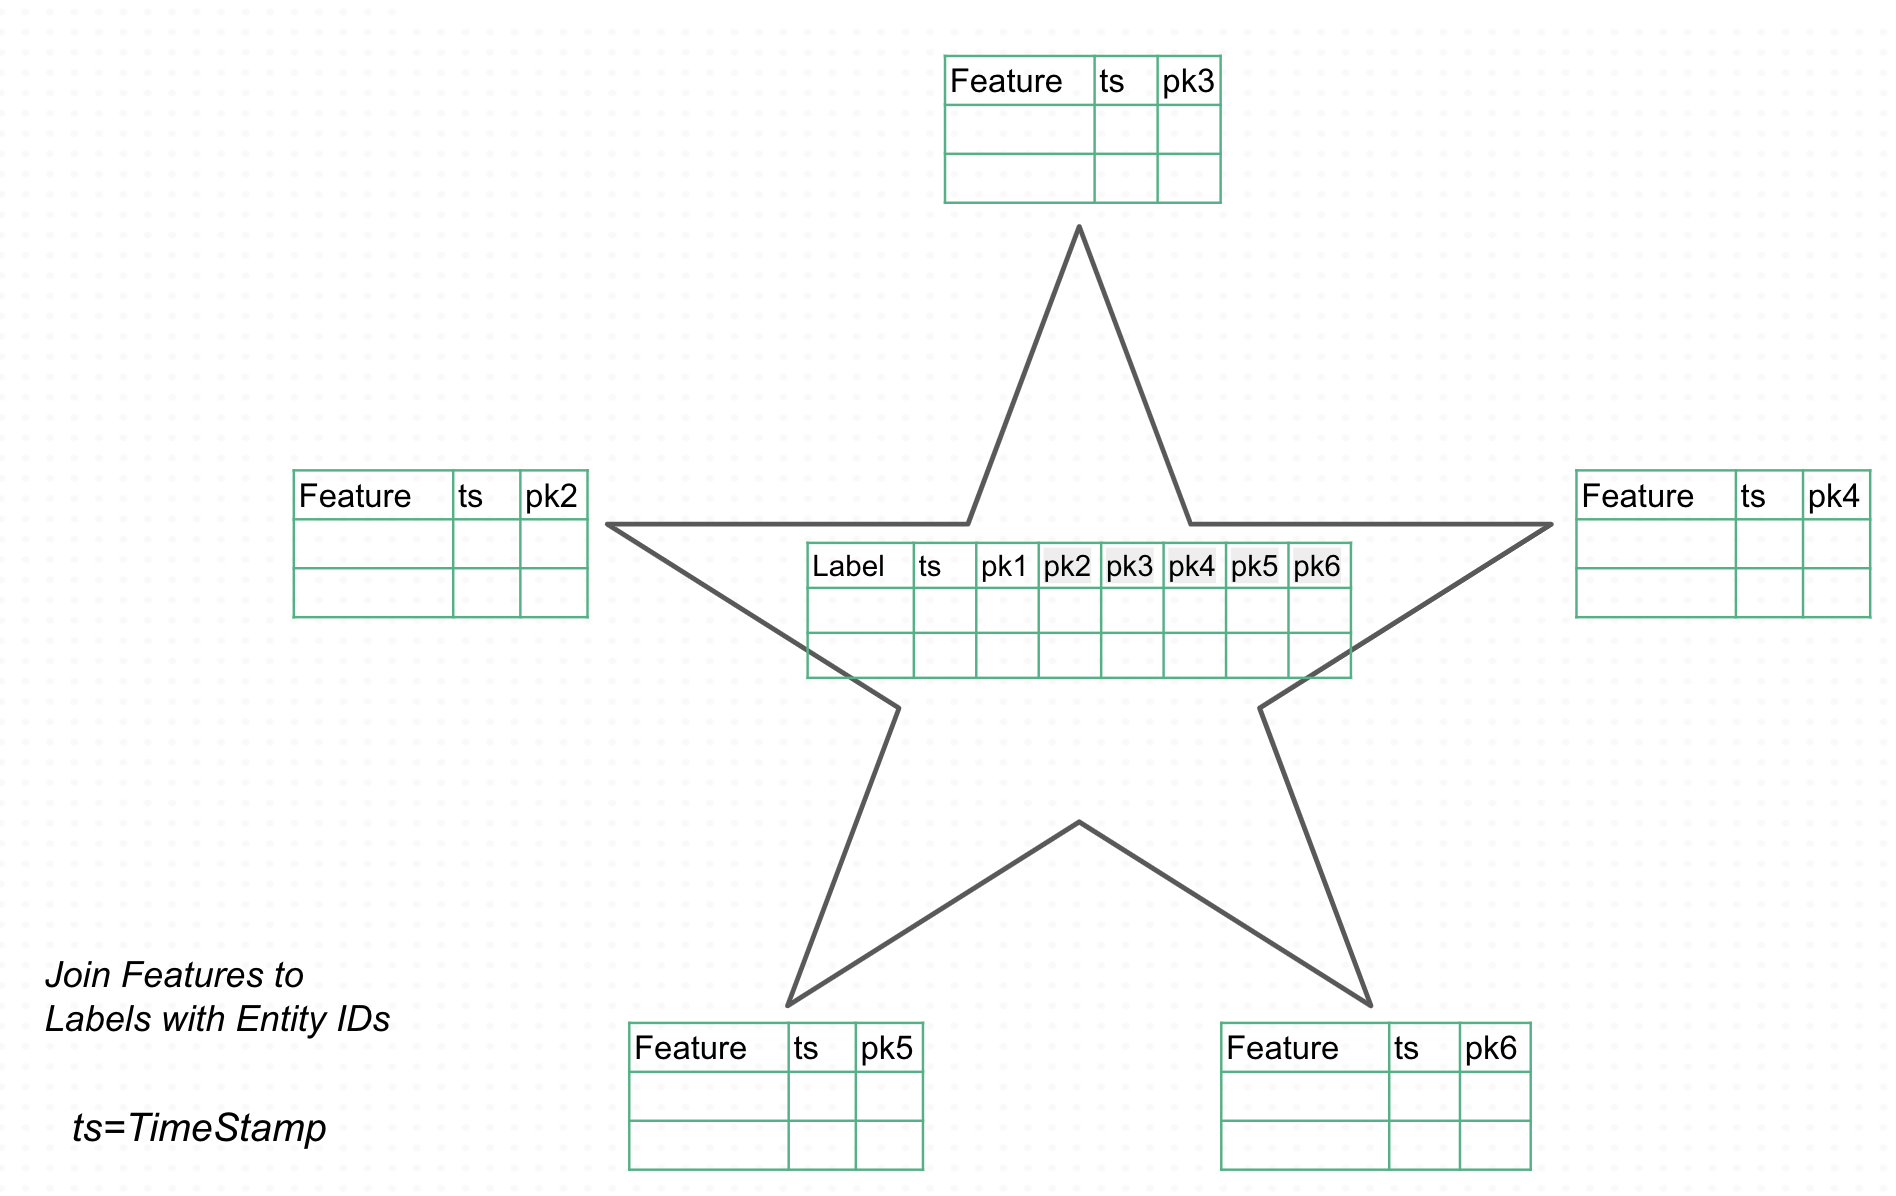
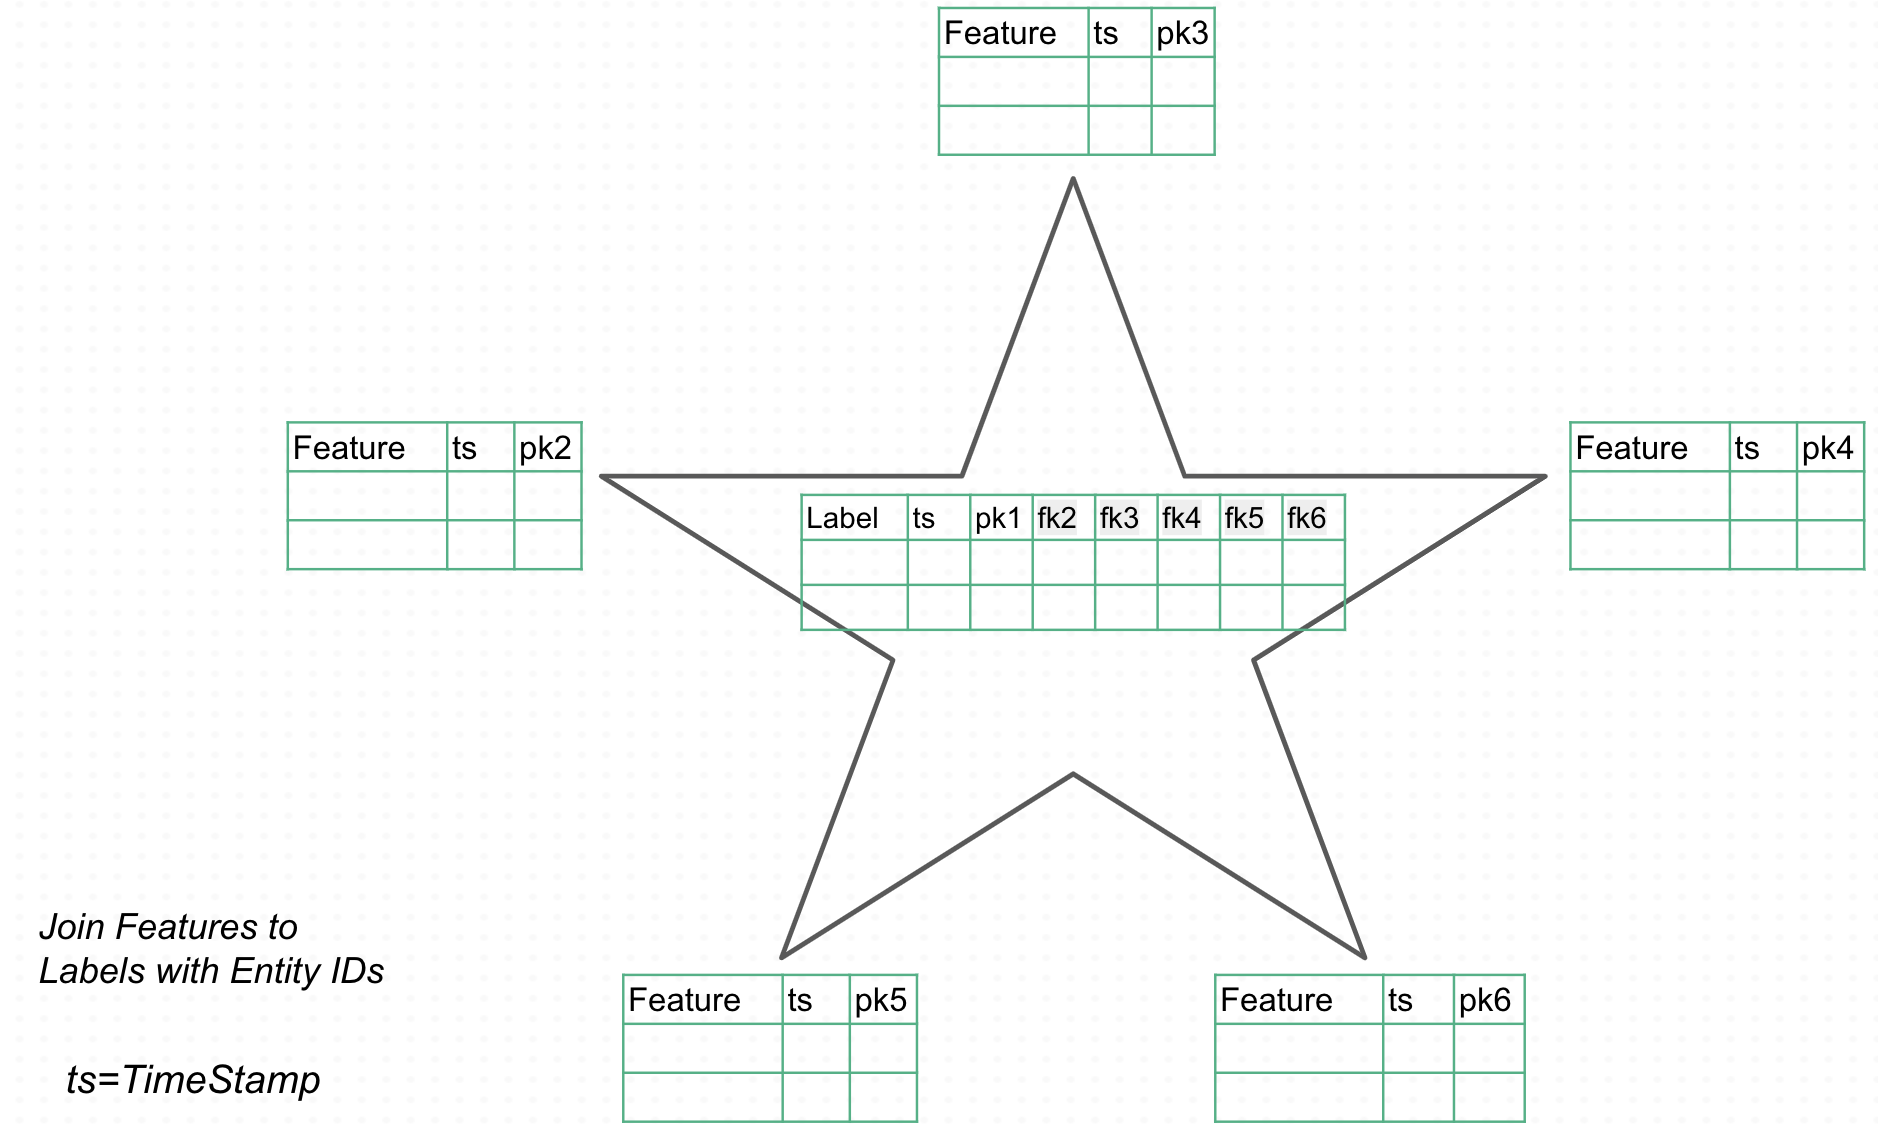
address comments

diff --git a/docs/user_guides/fs/feature_view/query.md b/docs/user_guides/fs/feature_view/query.md
@@ -20,7 +20,9 @@ The joining functionality is heavily inspired by the APIs used by Pandas to merg
 
     # save the query to feature view
     feature_view = fs.create_feature_view(
+        version=1, 
         name='credit_card_fraud',
+        labels=["is_fraud"],
         query=selected_features
     )
 
@@ -95,21 +97,21 @@ By default, Hopsworks will use the maximal matching subset of the primary keys o
     val selectedFeatures = creditCardTransactionsFg.join(accountDetailsFg)
     ```
 More complex joins are possible by selecting subsets of features from the joined feature groups and by specifying a join key and type.
-Possible join types are "inner", "left" or "right". Furthermore, it is possible to specify different features for the join key of the left and right feature group.
-The join key lists should contain the names of the features to join on.
+Possible join types are "inner", "left" or "right". By default`join_type` is `"left". Furthermore, it is possible to specify different 
+features for the join key of the left and right feature group. The join key lists should contain the names of the features to join on.
 
 === "Python"
     ```python
     selected_features = credit_card_transactions_fg.select_all() \
         .join(account_details_fg.select_all(), on=["cc_num"]) \
-        .join(merchant_details_fg.select_all(), left_on=["cc_num"], right_on=["merchant_id"], join_type="left")
+        .join(merchant_details_fg.select_all(), left_on=["merchant_id"], right_on=["id"], join_type="inner")
     ```
 
 === "Scala"
     ```scala
     val selectedFeatures = (creditCardTransactionsFg.selectAll()
         .join(accountDetailsFg.selectAll(), Seq("cc_num"))
-        .join(merchantDetailsFg.selectAll(), Seq("cc_num"), Seq("merchant_id"), "left"))
+        .join(merchantDetailsFg.selectAll(), Seq("merchant_id"), Seq("id"), "inner"))
     ```
 
 ### Data modeling in Hopsworks
@@ -119,7 +121,7 @@ Since v4.0 Hopsworks Feature selection API supports both Star and Snowflake Sche
 #### Star schema data model
 
 When choosing Star Schema data model all tables are children of the parent (the left most) feature group, which has all 
-foreign keys for its children feature groups.
+foreign keys for its child feature groups.
 
 <p align="center">
   <figure>
@@ -137,8 +139,8 @@ foreign keys for its children feature groups.
         .join(cc_issuer_details.select_all())
     ```
 
-In online inference, when you want to retrieve features in your online model, you have to provide all foreign key values 
-from the parent feature group to retrieve your precomputed feature values using the feature view.
+In online inference, when you want to retrieve features in your online model, you have to provide all foreign key values, 
+known as the serving_keys, from the parent feature group to retrieve your precomputed feature values using the feature view.
 
 === "Python"
     ```python
@@ -151,9 +153,9 @@ from the parent feature group to retrieve your precomputed feature values using 
     ```
 
 #### Snowflake schema 
-Hopsworks also provides the possibility to define children and grandchildren of the root (the left most) feature group. 
-This is called  Snowflake Schema data model where you need to build nested tables (subtrees) using joins, and then join the 
-subtrees to their parents which can be children of the root node (the leftmost feature group):
+Hopsworks also provides the possibility to define a feature view that consists of a nested tree of children (to up to a depth of 20) 
+from the root (left most) feature group. This is called  Snowflake Schema data model where you need to build nested tables (subtrees) using joins, and then join the
+subtrees to their parents iteratively until you reach the root node (the leftmost feature group in the feature selection):
 
 <p align="center">
   <figure>
@@ -170,10 +172,11 @@ subtrees to their parents which can be children of the root node (the leftmost f
 
         selected_features = credit_card_transactions.select_all()
                 .join(nested_selection)
-        .join(merchant_details.select_all()
+        .join(merchant_details.select_all())
     ```
 
-Now, you have the benefit that in online inference you only need to pass two foreign key values to retrieve the precomputed features:
+Now, you have the benefit that in online inference you only need to pass two serving key values (the foreign keys of the leftmost feature group)
+to retrieve the precomputed features:
 
 === "Python"
     ```python
@@ -206,15 +209,15 @@ Filters are fully compatible with joins:
     ```python
     selected_features = credit_card_transactions_fg.select_all() \
         .join(account_details_fg.select_all(), on=["cc_num"]) \
-        .join(merchant_details_fg.select_all(), left_on=["cc_num"], right_on=["merchant_id"], join_type="left") \
+        .join(merchant_details_fg.select_all(), left_on=["merchant_id"], right_on=["id"], join_type="left") \
         .filter((credit_card_transactions_fg.category == "Grocery") | (credit_card_transactions_fg.category == "Restaurant/Cafeteria"))
     ```
 
 === "Scala"
     ```scala
     val selectedFeatures = (creditCardTransactionsFg.selectAll()
-        .join(taccountDetailsFg.selectAll(), Seq("cc_num"))
-        .join(merchantDetailsFg.selectAll(), Seq("cc_num"), Seq("merchant_id"), "left")
+        .join(accountDetailsFg.selectAll(), Seq("cc_num"))
+        .join(merchantDetailsFg.selectAll(), Seq("merchant_id"), Seq("id"), "left")
         .filter(creditCardTransactionsFg.getFeature("category").eq("Grocery").or(creditCardTransactionsFg.getFeature("category").eq("Restaurant/Cafeteria"))))
     ```
 
@@ -224,7 +227,7 @@ The filters can be applied at any point of the query:
     ```python
     selected_features = credit_card_transactions_fg.select_all() \
         .join(accountDetails_fg.select_all().filter(accountDetails_fg.avg_temp >= 22), on=["cc_num"]) \
-        .join(merchant_details_fg.select_all(), left_on=["cc_num"], right_on=["merchant_id"], join_type="left") \
+        .join(merchant_details_fg.select_all(), left_on=["merchant_id"], right_on=["id"], join_type="left") \
         .filter(credit_card_transactions_fg.category == "Grocery")
     ```
 
@@ -232,7 +235,7 @@ The filters can be applied at any point of the query:
     ```scala
     val selectedFeatures = (creditCardTransactionsFg.selectAll()
         .join(accountDetailsFg.selectAll().filter(accountDetailsFg.getFeature("avg_temp").ge(22)), Seq("cc_num"))
-        .join(merchantDetailsFg.selectAll(), Seq("cc_num"), Seq("merchant_id"), "left")
+        .join(merchantDetailsFg.selectAll(), Seq("merchant_id"), Seq("id"), "left")
         .filter(creditCardTransactionsFg.getFeature("category").eq("Grocery")))
     ```
 
